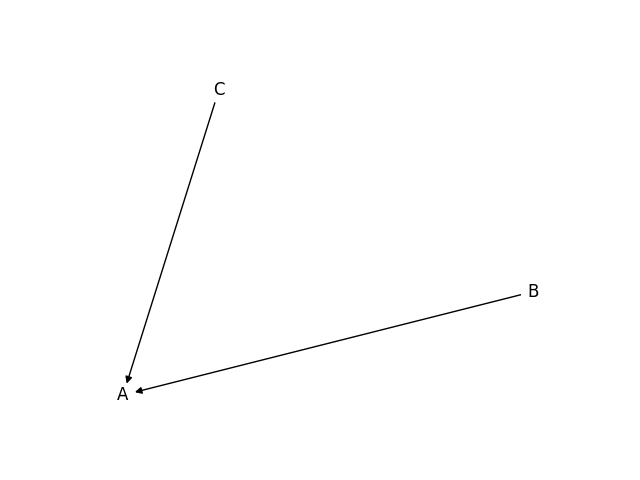
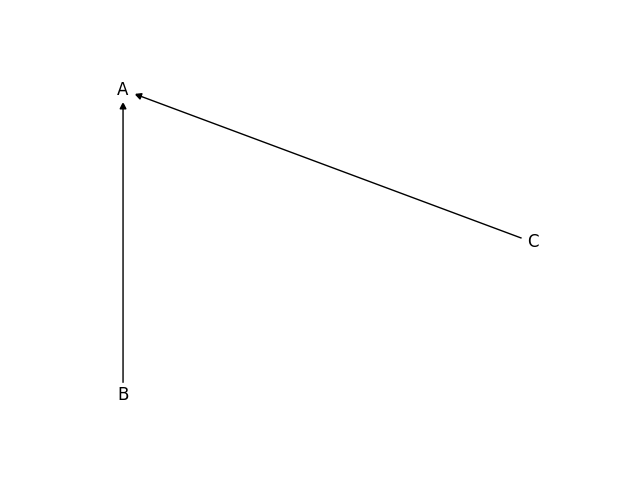
Added text parsing and changed graph layout

diff --git a/majority_digraph.py b/majority_digraph.py
@@ -1,6 +1,6 @@
 from typing import Optional, List, Dict, Set, Tuple
 from itertools import product
-from networkx import DiGraph, spring_layout, draw_networkx, get_edge_attributes, draw_networkx_edge_labels
+from networkx import DiGraph, circular_layout, draw_networkx, get_edge_attributes, draw_networkx_edge_labels
 
 import matplotlib.pyplot as plt
 
@@ -29,6 +29,12 @@ class Edges:
         self.edges: Set[Edge] = set([Edge(src, dest, 0) for src, dest in edges])
 
     def add_weight(self, source: str, dest: str):
+        """
+
+        :param source:
+        :param dest:
+        :return:
+        """
         self[(source, dest)].add_weight(1)
         self[(dest, source)].add_weight(-1)
 
@@ -54,13 +60,21 @@ class MajorityDigraph:
         self.edges = [edge for edge in self.edges.edges if edge.weight > 0]
 
     def plot(self, weighted: bool = False, save_file: str = ""):
+        """
+
+        :param weighted:
+        :param save_file:
+        :return:
+        """
         g: DiGraph = DiGraph()
+        for alternative in self.alternatives:
+            g.add_node(alternative)
         for edge in self.edges:
             if weighted:
                 g.add_edge(edge.source, edge.dest, weight=edge.weight)
             else:
                 g.add_edge(edge.source, edge.dest, weight=None)
-        pos = spring_layout(g)
+        pos = circular_layout(g)
         draw_networkx(g, pos, node_color='w')
         if weighted:
             labels = get_edge_attributes(g, 'weight')
@@ -97,17 +111,18 @@ def get_edge_tuples(alternatives: Set[str]):
 
 
 def create_majority_digraph(profile: Dict[str, List[str]]) -> Tuple[Set[str], Edges]:
-    # TODO: finish dis
+    """
+
+    :param profile:
+    :return:
+    """
     alternatives: Set[str] = determine_alternatives(profile)
     edge_list: List[Tuple[str, str]] = list(get_edge_tuples(alternatives))
 
     edges: Edges = Edges(edge_list)
     for voter, ballot in profile.items():
-        #print("Voter: "+voter)
         for winner, loser in generate_duels(ballot):
-            #print(winner + " wins against " + loser)
             edges.add_weight(winner, loser)
-        #print()
     return alternatives, edges
 
 
@@ -124,5 +139,12 @@ def generate_duels(ballot: List[str]):
 
 
 def plot_majority_digraph(profile: Dict[str, List[str]], weighted: bool = False, save_loc: str = ''):
+    """
+
+    :param profile:
+    :param weighted:
+    :param save_loc:
+    :return:
+    """
     mj = MajorityDigraph(profile)
     mj.plot(weighted, save_loc)

diff --git a/test.py b/test.py
@@ -1,10 +1,10 @@
 from majority_digraph import MajorityDigraph
-from utils import read_file
+from utils import read_json, read_and_parse_text
 
 
-def test():
-    file_name = 'profiles/profiles.json'
-    profile = read_file(file_name)
+def test_json():
+    file_name = 'profiles/json/profile0.json'
+    profile = read_json(file_name)
     # print(profile)
     # alternatives = determine_alternatives(profile)
     # print(alternatives)
@@ -17,4 +17,15 @@ def test():
     mj.plot(True, save_file_weighted)
 
 
-test()
+def test_txt():
+    file_name = 'profiles/txt/profile1.txt'
+    profile = read_and_parse_text(file_name)
+    save_file = "plots/0.png"
+    save_file_weighted = "plots/1.png"
+    mj = MajorityDigraph(profile)
+    mj.plot(False, save_file)
+    mj.plot(True, save_file_weighted)
+
+
+test_json()
+#test_txt()

diff --git a/utils.py b/utils.py
@@ -1,8 +1,19 @@
 from json import load
 
 
-def read_file(file_name):
+def read_json(file_name):
     ret = None
     with open(file_name) as f:
         ret = load(f)
     return ret
+
+
+def read_txt(file_name):
+    with open(file_name) as f:
+        ret = f.read().splitlines()
+    return ret
+
+
+def read_and_parse_text(file_name: str):
+    text = read_txt(file_name)
+    return {linesplit[0]: linesplit[1:] for line in text if (linesplit := line.split(" "))}
